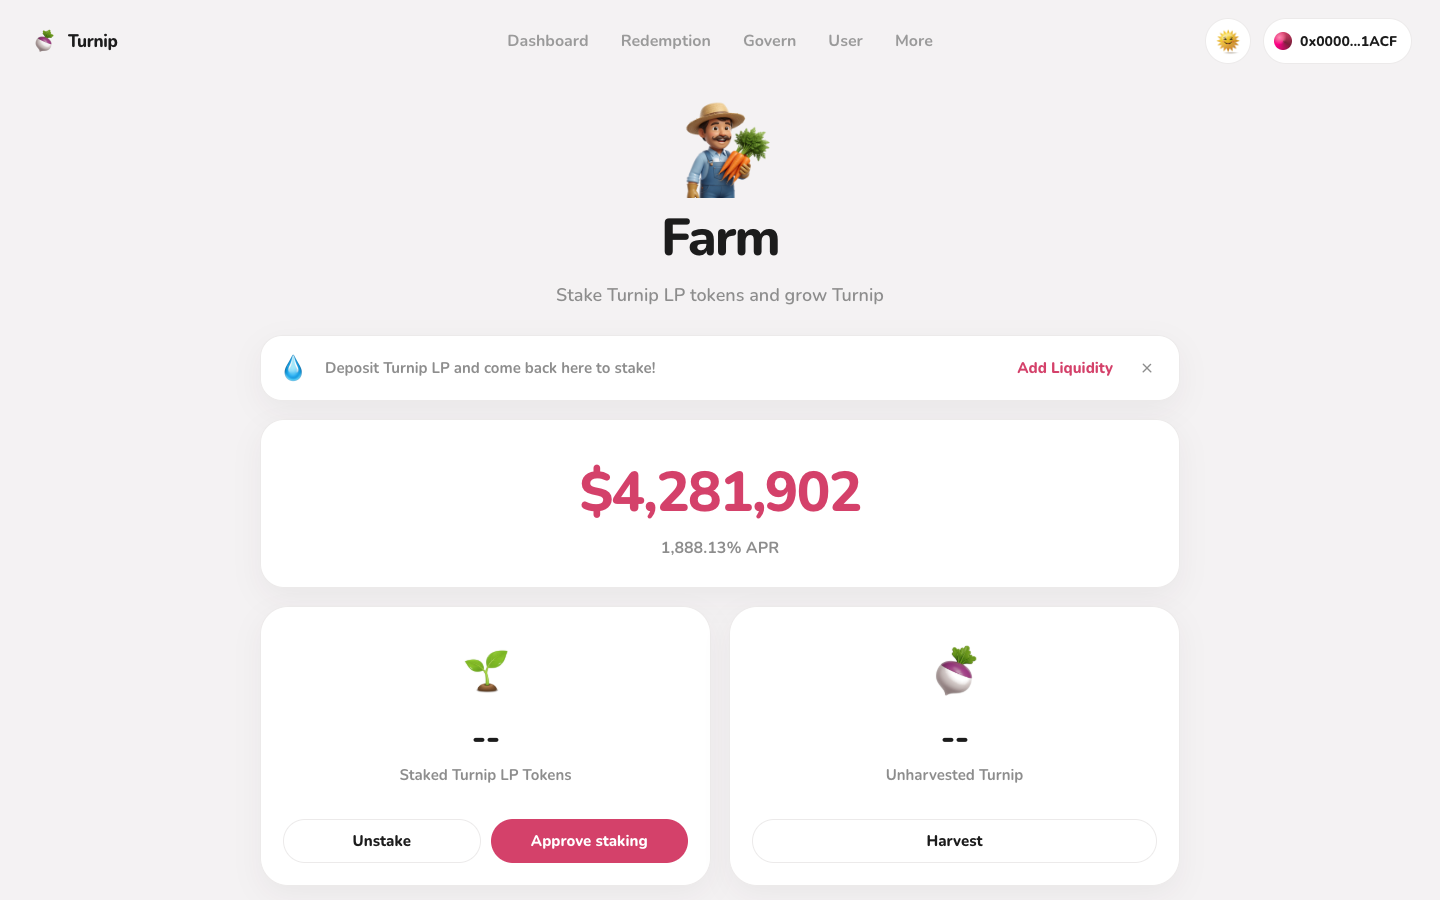
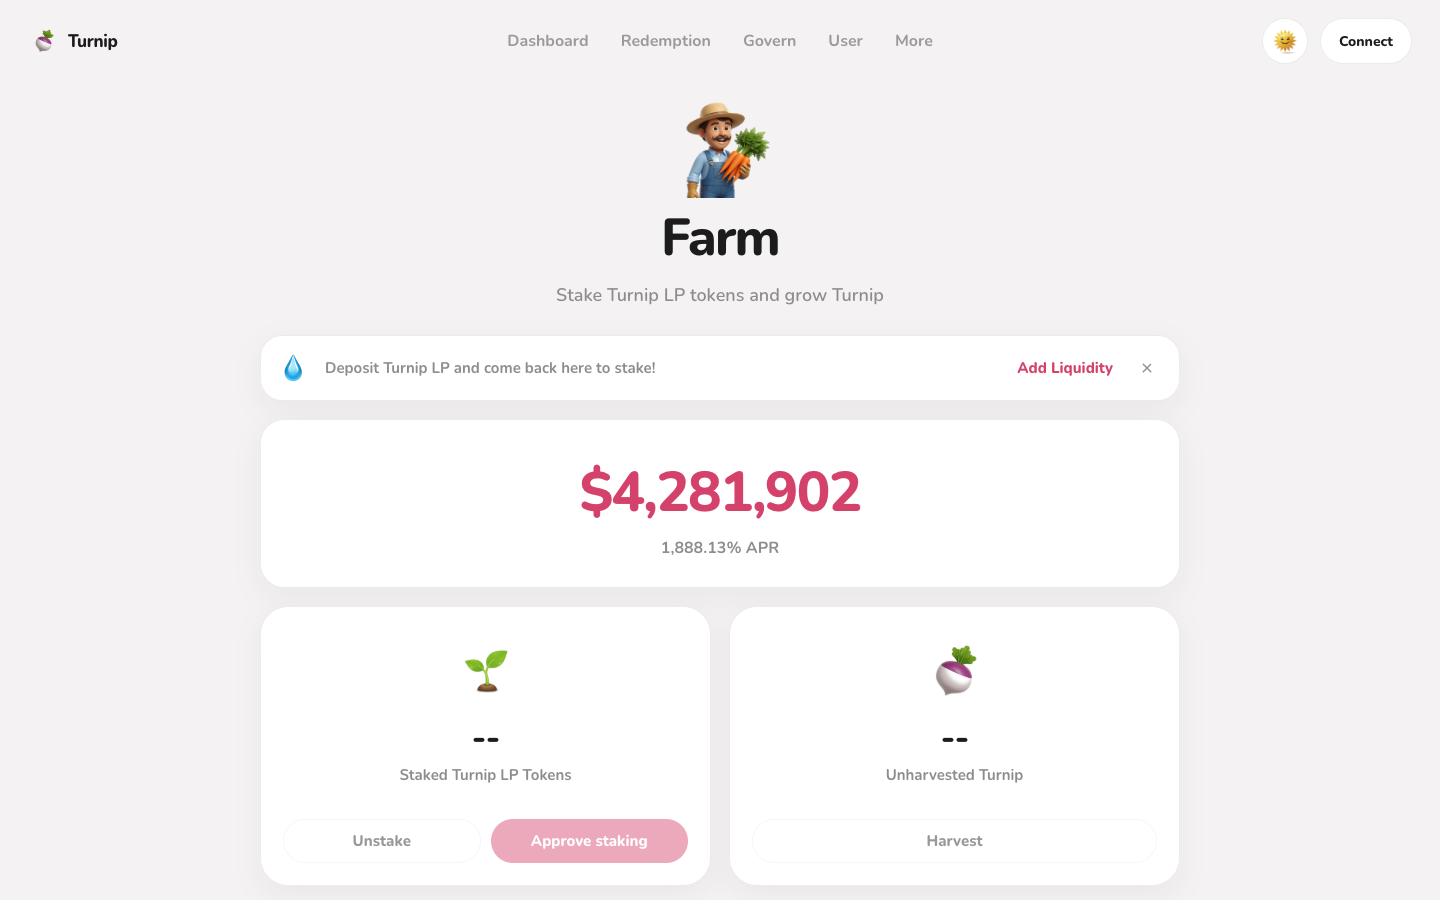
Drop the 0x0000 wallet from the UI and screenshots
Start disconnected so the header shows Connect. Replace the old mock address.

diff --git a/src/context/AppContext.tsx b/src/context/AppContext.tsx
@@ -9,7 +9,7 @@ import {
 } from 'react'
 import { FARMS, type FarmId } from '../data/farms'
 
-export const MOCK_ADDRESS = '0x0000000000000000000000000000000000001acf'
+export const MOCK_ADDRESS = '0x1111111111111111111111111111111111111111'
 
 export type Toast = { id: number; text: string }
 
@@ -78,7 +78,7 @@ export function AppProvider({ children }: { children: ReactNode }) {
     const saved = localStorage.getItem('theme-pref')
     return saved === 'dark' ? 'dark' : 'light'
   })
-  const [connected, setConnected] = useState(true)
+  const [connected, setConnected] = useState(false)
   const [positions, setPositions] = useState<Positions>(emptyPositions)
   const [tokenBal, setTokenBal] = useState(0)
   const [tokenV2] = useState(0)
